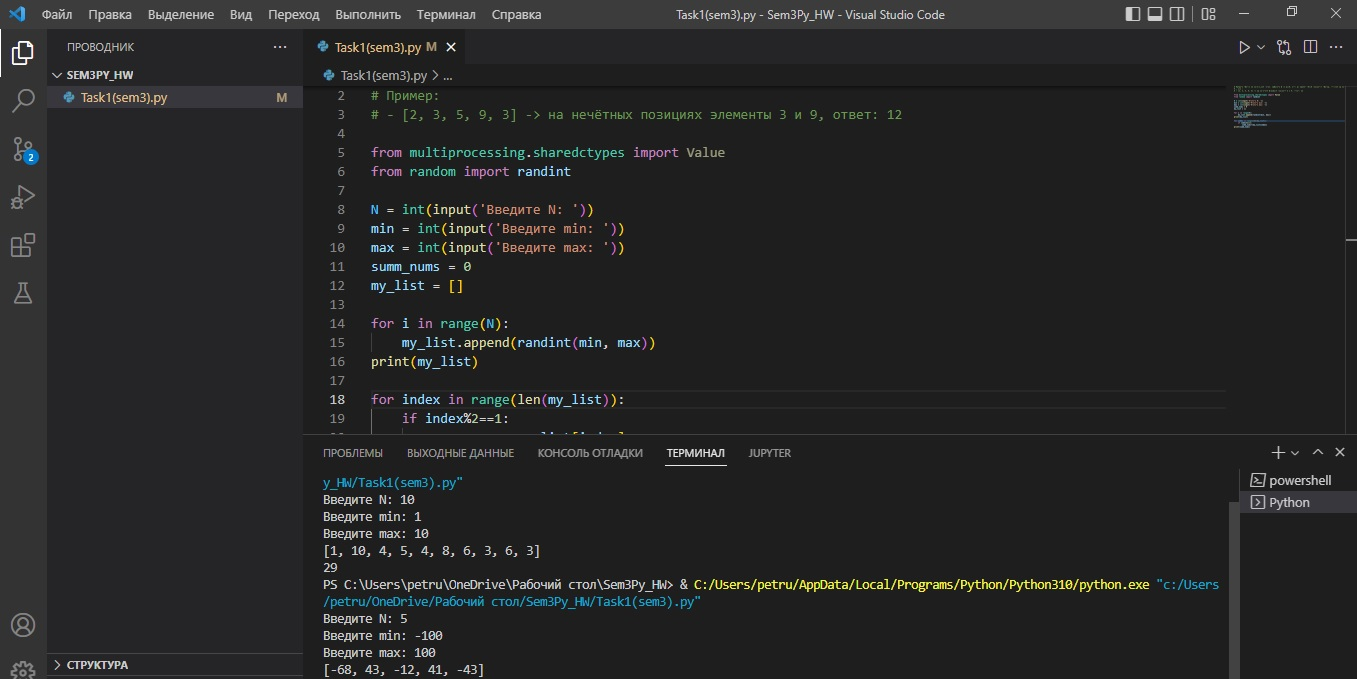
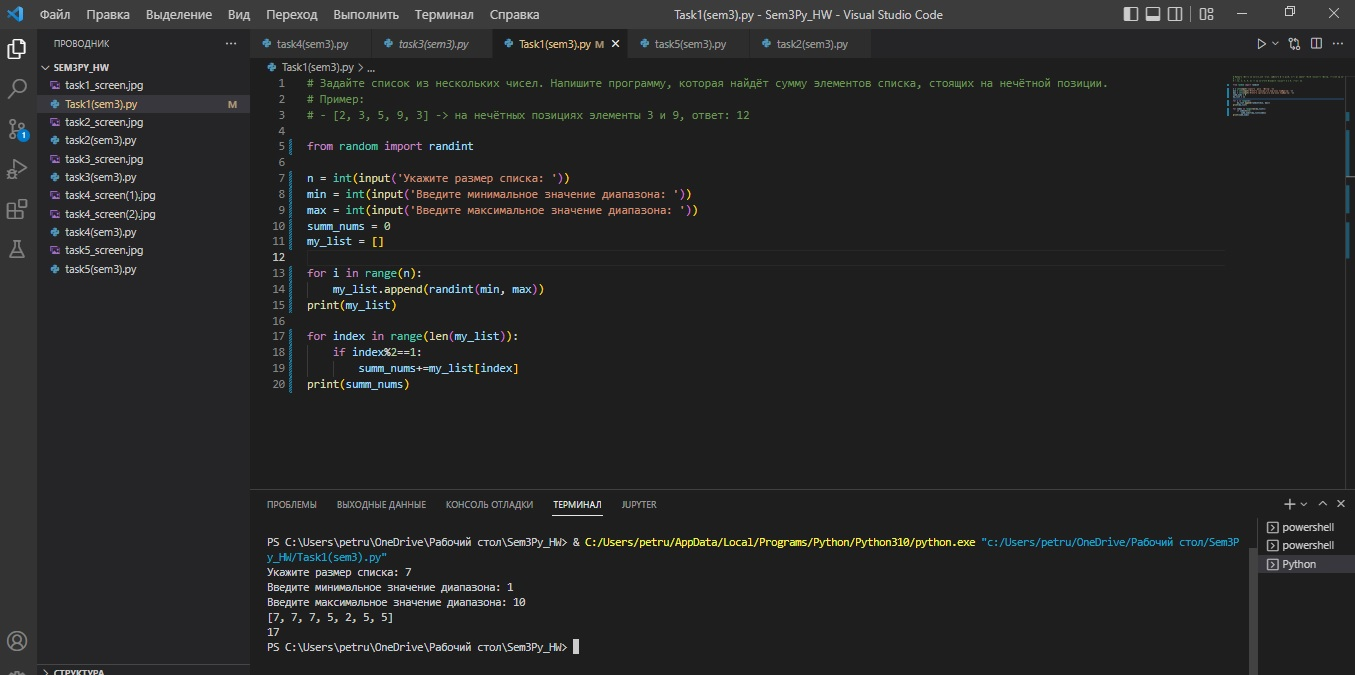
t1-2

diff --git a/Task1(sem3).py b/Task1(sem3).py
@@ -2,16 +2,15 @@
 # Пример:
 # - [2, 3, 5, 9, 3] -> на нечётных позициях элементы 3 и 9, ответ: 12
 
-# from multiprocessing.sharedctypes import Value
 # from random import randint
 
-# N = int(input('Введите N: '))
-# min = int(input('Введите min: '))
-# max = int(input('Введите max: '))
+# n = int(input('Укажите размер списка: '))
+# min = int(input('Введите минимальное значение диапазона: '))
+# max = int(input('Введите максимальное значение диапазона: '))
 # summ_nums = 0
 # my_list = []
 
-# for i in range(N):
+# for i in range(n):
 #     my_list.append(randint(min, max))
 # print(my_list)
 

diff --git a/task2(sem3).py b/task2(sem3).py
@@ -7,13 +7,13 @@
 
 # from random import randint
 
-# N = int(input('Введите N: '))
-# min = int(input('Введите min: '))
-# max = int(input('Введите max: '))
+# n = int(input('Укажите размер списка: '))
+# min = int(input('Введите минимальное значение диапазона: '))
+# max = int(input('Введите максимальное значение диапазона: '))
 # result_list = []
 # my_list = []
 
-# for i in range(N):
+# for i in range(n):
 #     my_list.append(randint(min, max))
 # print(my_list)
 
